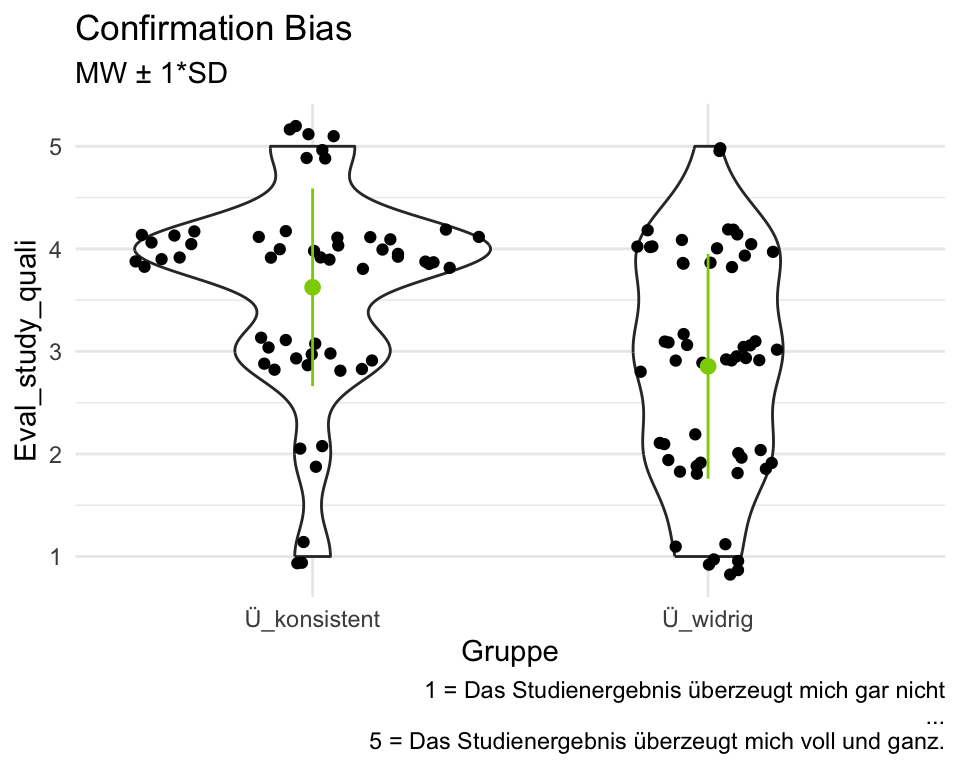
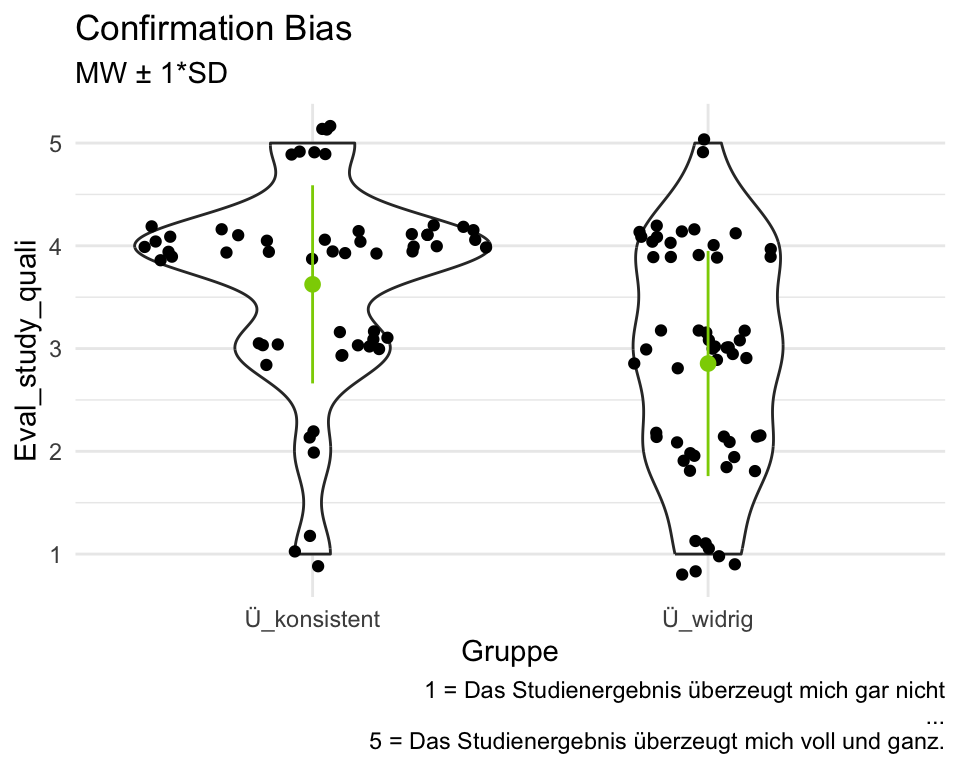
Gutschein2

diff --git a/Block06-Wiederholung/index.html b/Block06-Wiederholung/index.html
@@ -210,7 +210,7 @@
 <section id="liveexperiment" class="slide level2 center smaller">
 <h2>Liveexperiment</h2>
 <blockquote>
-<p>Bitte bearbeiten Sie das Liveexperiment (Masterarbeit) unter <a href="https://ogy.de/mvl-25">https://ogy.de/mvl-25</a>, anhand dessen Ergebnisse wir die Inhalte wiederholen werden.</p>
+<p>Bitte bearbeiten Sie das Liveexperiment (Masterarbeit) unter <a href="https://ogy.de/mvl-25">https://ogy.de/mvl-25</a>, anhand dessen Ergebnisse wir die Inhalte wiederholen werden. Unter den Datenspender:innen werden als symbolische Anerkennung zwei Einkaufsgutscheine im Wert von 10€ verlost.</p>
 </blockquote>
 <div class="quarto-figure quarto-figure-center">
 <figure>
